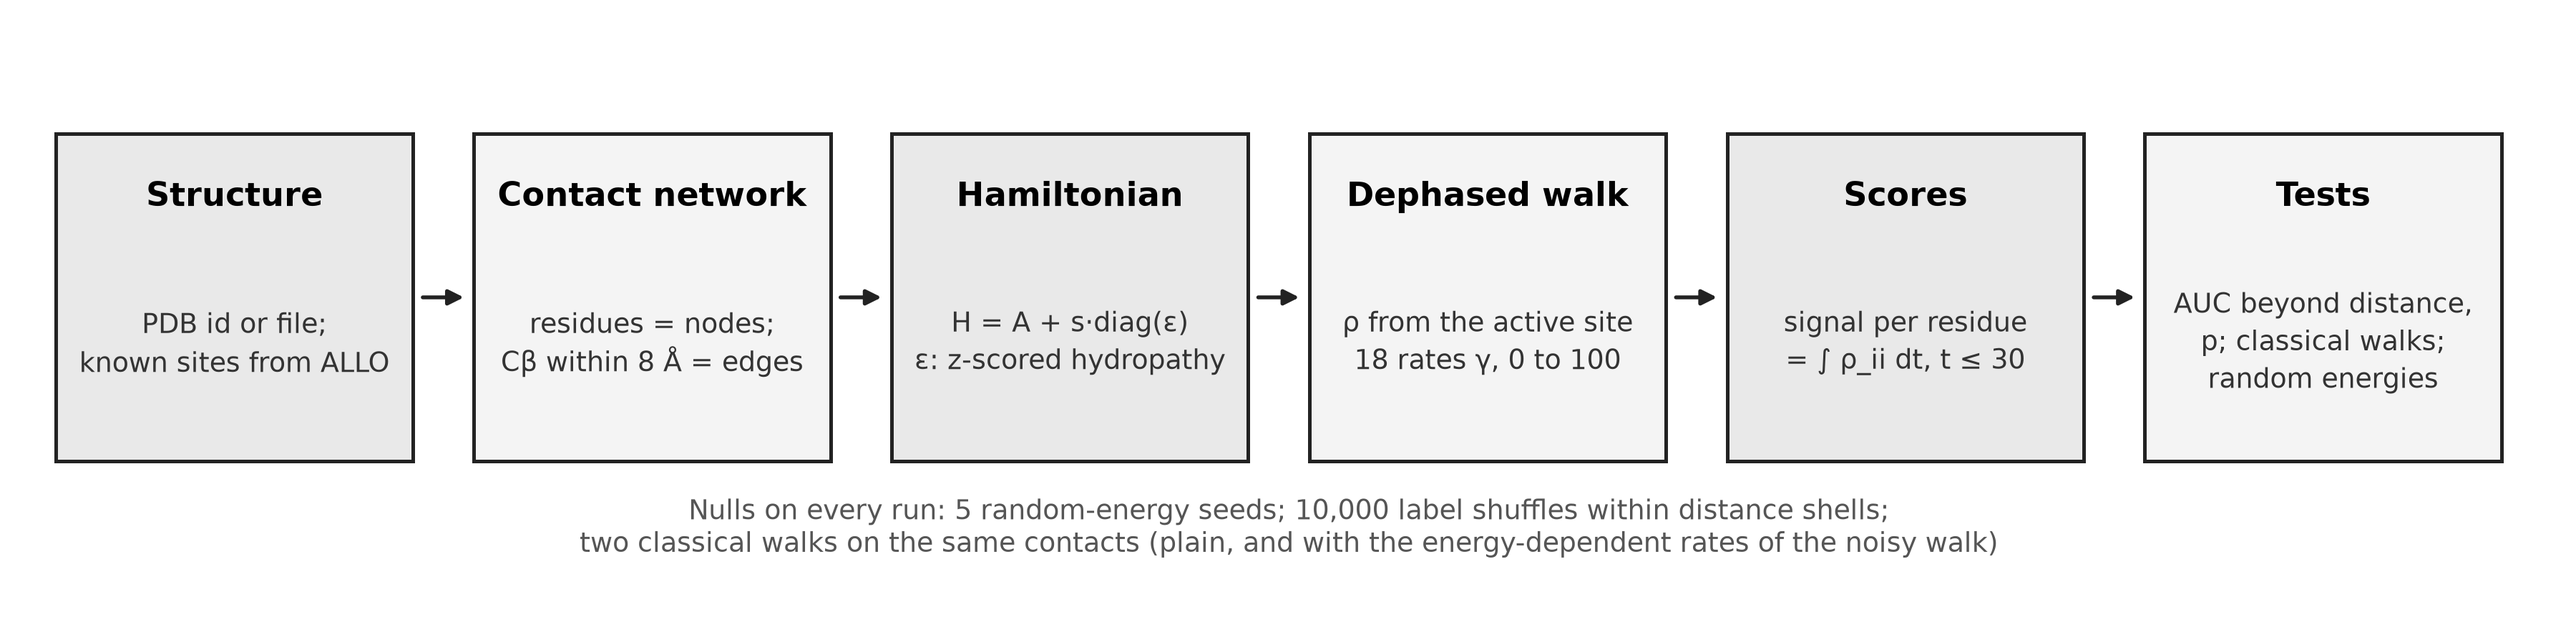
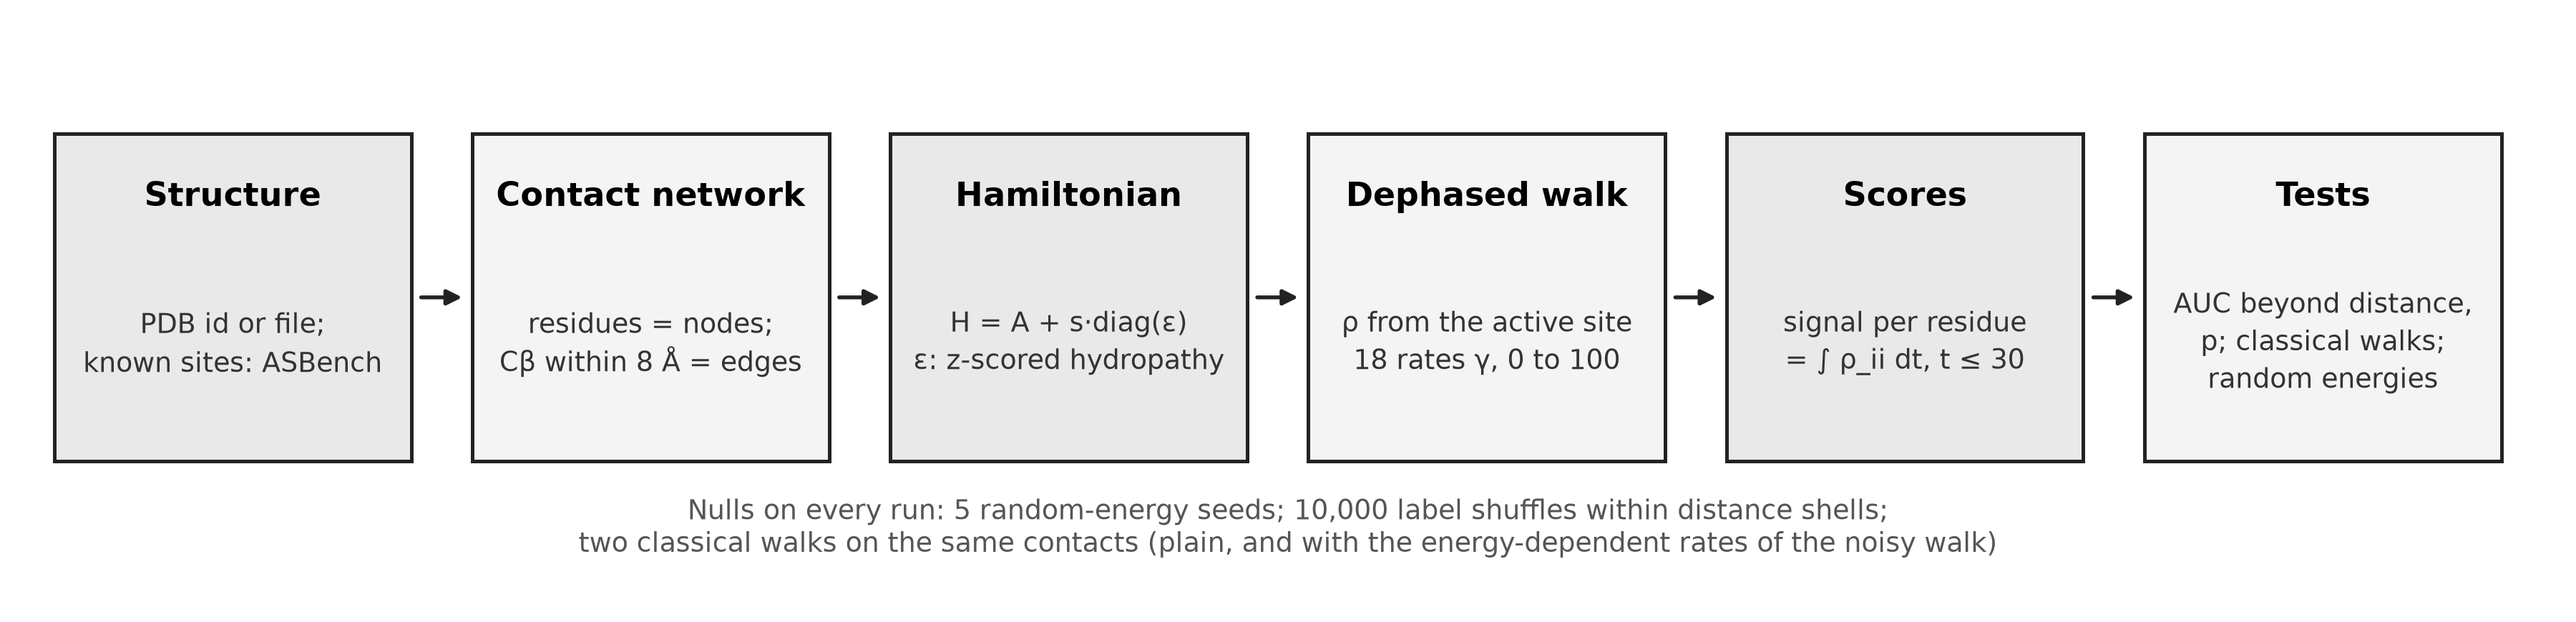
Name the label source correctly: ASBench (via Wu et al. 2022, Table S2), not 'ALLO'
The bundled table is Table S2 of Wu, Stromich & Yaliraki (2022), 118 structures
they collected from the ASBench benchmark and the Allosteric Database. The
paper never uses the name 'ALLO'. User-facing text, notes, help and the
citation now say ASBench and cite it; the data are unchanged. The committed
pre-registration keeps its original wording, with a note in the READMEs.

Claude-Session: https://claude.ai/code/session_01Ghkpb9cDS8f3FHonbzdFeu

diff --git a/labels.py b/labels.py
@@ -3,12 +3,14 @@
 
 Labels come from, in order of precedence:
   1. residues you give (--active / --allosteric),
-  2. the bundled ALLO benchmark table (data/allo_labels.csv), looked up by the
+  2. the bundled benchmark table (data/allo_labels.csv), looked up by the
      structure's PDB id. That table is Supplementary Table S2 of
      Wu, Stromich & Yaliraki, "Prediction of allosteric sites and signaling:
      insights from benchmarking datasets", Patterns 3(1), 100408 (2022),
-     doi:10.1016/j.patter.2021.100408 (CC BY 4.0), curated from the Allosteric
-     Database (ASD). Cite it if you use it.
+     doi:10.1016/j.patter.2021.100408 (CC BY 4.0): 118 structures collected from
+     the ASBench benchmark (Huang et al., Bioinformatics 31, 2598 (2015)) and the
+     Allosteric Database (ASD). Cite both if you use it. (Earlier versions of this
+     project called it "the ALLO table"; that name does not appear in the paper.)
 
 Residue ids use the network's convention, CHAIN:RESSEQ[ICODE] in author
 numbering, e.g. A:57 or A:57B.
@@ -17,9 +19,10 @@ import csv, os, re
 
 HERE = os.path.dirname(os.path.abspath(__file__))
 TABLE_PATH = os.path.join(HERE, "data", "allo_labels.csv")
-ALLO_CITATION = ("Wu N, Stromich L, Yaliraki SN. Prediction of allosteric sites and signaling: "
-                 "insights from benchmarking datasets. Patterns 3(1), 100408 (2022), "
-                 "doi:10.1016/j.patter.2021.100408, Table S2.")
+TABLE_CITATION = ("Wu N, Stromich L, Yaliraki SN. Prediction of allosteric sites and signaling: "
+                  "insights from benchmarking datasets. Patterns 3(1), 100408 (2022), "
+                  "doi:10.1016/j.patter.2021.100408, Table S2; from ASBench (Huang W et al. "
+                  "Bioinformatics 31, 2598 (2015)) and the Allosteric Database.")
 _ID = re.compile(r"^[0-9][A-Za-z0-9]{3}$")
 _RES = re.compile(r"^([A-Za-z0-9]+):(-?\d+[A-Za-z]?)(?::([A-Za-z]{3}))?$")
 
@@ -74,14 +77,14 @@ def parse_residues(text, default_chain=None):
 
 
 def from_table_row(row):
-    return {"origin": "ALLO", "entry": row["entry"], "pdb": row["pdb"], "protein": row["protein"],
-            "allosteric_ligand": row["allosteric_ligand"], "citation": ALLO_CITATION,
+    return {"origin": "ASBench", "entry": row["entry"], "pdb": row["pdb"], "protein": row["protein"],
+            "allosteric_ligand": row["allosteric_ligand"], "citation": TABLE_CITATION,
             "active": parse_residues(row["active_site"]),
             "allosteric": parse_residues(row["allosteric_site"])}
 
 
 def resolve(inp, labels_arg="auto", active=None, allosteric=None, site=None, default_chain=None):
-    """Work out which labels apply. Returns (labels or None, note, other ALLO entries)."""
+    """Work out which labels apply. Returns (labels or None, note, other entries for this PDB id)."""
     if active or allosteric:
         if not active:
             raise ValueError("known allosteric residues need the active site too (--active).")
@@ -94,15 +97,15 @@ def resolve(inp, labels_arg="auto", active=None, allosteric=None, site=None, def
     pid = structure_id(inp)
     rows = [r for r in load_table() if r["pdb"].upper() == pid] if pid else []
     if not rows:
-        return None, (f"PDB id {pid} is not in the ALLO table" if pid else "no PDB id found for this structure"), []
+        return None, (f"PDB id {pid} is not in the ASBench table" if pid else "no PDB id found for this structure"), []
     entries = [r["entry"] for r in rows]
     row = rows[0]
     if site is not None:
         pick = [r for r in rows if r["entry"] == site or r["entry"].endswith(f"_{site}")]
         if not pick:
-            raise ValueError(f"ALLO has no site '{site}' for {pid}; choose one of {', '.join(entries)}.")
+            raise ValueError(f"the ASBench table has no site '{site}' for {pid}; choose one of {', '.join(entries)}.")
         row = pick[0]
-    note = f"ALLO entry {row['entry']} ({row['protein']})"
+    note = f"ASBench entry {row['entry']} ({row['protein']})"
     if len(rows) > 1:
         note += f"; other sites for this PDB: {', '.join(e for e in entries if e != row['entry'])} (use --site)"
     return from_table_row(row), note, entries

diff --git a/run_protein.py b/run_protein.py
@@ -17,8 +17,8 @@ the output folder:
     NAME_result.json         all numbers behind the figures
 
 Any PDB id or structure file works. The walk starts at the active site when one
-is known: looked up in the bundled ALLO benchmark table (118 proteins) by PDB id,
-or given with --active. Known allosteric residues (from ALLO or --allosteric)
+is known: looked up in the bundled ASBench table (118 structures; Wu et al. 2022, Table S2) by PDB id,
+or given with --active. Known allosteric residues (from that table or --allosteric)
 add the ROC AUC test; without them you still get the ranked candidate residues.
 With no active site at all, the walk starts at --source (default: the
 most-connected residue) and gives the transport curve and ranking.
@@ -542,10 +542,10 @@ def main():
                          "skips it (about 4 times faster, but a hump without it is not evidence).")
     ap.add_argument("--control-seeds", type=int, default=5, help="Random-energy seeds for the control.")
     ap.add_argument("--permutations", type=int, default=10000, help="Label shuffles for the p-value.")
-    ap.add_argument("--labels", choices=["auto", "none"], default="auto", help="auto: ALLO table by PDB id; none: skip.")
+    ap.add_argument("--labels", choices=["auto", "none"], default="auto", help="auto: the ASBench table by PDB id; none: skip.")
     ap.add_argument("--active", default=None, help="Active-site residues, e.g. A:57,A:102 (the walk starts here).")
     ap.add_argument("--allosteric", default=None, help="Known allosteric residues, e.g. A:196,A:203 (adds the AUC test).")
-    ap.add_argument("--site", default=None, help="Which ALLO entry when a PDB has several (e.g. 2 for 1CE8_2).")
+    ap.add_argument("--site", default=None, help="Which table entry when a PDB has several (e.g. 2 for 1CE8_2).")
     ap.add_argument("--workers", type=int, default=None, help="Parallel processes (default: CPU cores, max 8).")
     ap.add_argument("--outdir", default="output")
     ap.add_argument("--prefix", default=None)

diff --git a/results/make_results.py b/results/make_results.py
@@ -7,7 +7,7 @@
 Every protein studied is reported, including the ones where nothing is found.
 Runs use the pipeline defaults (8 Å Cβ contacts, hydropathy energies at scale 3,
 18 noise levels, 5 random-energy seeds, 10,000 label shuffles); the known sites
-come from the bundled ALLO table. Only the small data files of each run are kept
+come from the bundled ASBench table (Wu et al. 2022, Table S2). Only the small data files of each run are kept
 (CSVs, parameters and result JSON); the network, structure and per-run figures
 are left out to keep the repository light.
 """
@@ -348,7 +348,7 @@ def fig_workflow():
     ax.set_xlim(0, 12.3)
     ax.set_ylim(-0.15, 2.9)
     ax.axis("off")
-    boxes = [("Structure", "PDB id or file;\nknown sites from ALLO"),
+    boxes = [("Structure", "PDB id or file;\nknown sites: ASBench"),
              ("Contact network", "residues = nodes;\nCβ within 8 Å = edges"),
              ("Hamiltonian", "H = A + s·diag(ε)\nε: z-scored hydropathy"),
              ("Dephased walk", "ρ from the active site\n18 rates γ, 0 to 100"),

diff --git a/results/select_proteins.py b/results/select_proteins.py
@@ -2,7 +2,8 @@
 """select_proteins.py - the prespecified validation set, chosen before any of it is run.
 
 The four proteins in PROTEINS of make_results.py were picked during development.
-The validation set is drawn from the ALLO table by a rule fixed in advance:
+The validation set is drawn from the ASBench table (data/allo_labels.csv; called the
+ALLO table when this rule was committed) by a rule fixed in advance:
 
   1. one entry per PDB id (the first in the table);
   2. every active-site and allosteric residue lies on one chain;

diff --git a/tests/test_labels.py b/tests/test_labels.py
@@ -14,7 +14,7 @@ def test_table_loads():
 
 def test_lookup_by_pdb_id_and_site():
     lab, note, entries = lb.resolve("1iwh")
-    assert lab["entry"] == "1IWH" and lab["origin"] == "ALLO" and "Hemoglobin" in note
+    assert lab["entry"] == "1IWH" and lab["origin"] == "ASBench" and "Hemoglobin" in note
     lab2, _, entries2 = lb.resolve("1CE8", site="2")
     assert lab2["entry"] == "1CE8_2" and set(entries2) == {"1CE8_1", "1CE8_2"}
     assert lb.resolve("1A8O")[0] is None                   # not in the table

diff --git a/README.md b/README.md
@@ -19,7 +19,8 @@ two questions:
 | + the active site (`--active`) | walk from the active site: ranked candidate allosteric residues |
 | + known allosteric residues (`--allosteric`) | the ROC AUC test of how well the walk finds them |
 
-For the 118 proteins in the bundled ALLO benchmark table, the active site and
+For the 118 structures in the bundled benchmark table (from ASBench and the Allosteric
+Database, via Wu et al. 2022; see below), the active site and
 allosteric residues are filled in automatically from the PDB id. A PDB file does
 not say where a protein's allosteric site is; that comes from experiments, which
 is why a score is only possible where those residues are known.
@@ -38,7 +39,7 @@ Needs Python 3.10 or newer (tested on 3.11). Download the code and install the f
     python run_protein.py 1A8O.pdb                 # a file
     python run_protein.py 4OBE --chains A          # any PDB id
     python run_protein.py 4OBE --chains A --active A:12,A:13,A:61   # with an active site
-    python run_protein.py 1IWH                     # an ALLO protein (known sites looked up)
+    python run_protein.py 1IWH                     # a protein in the table (known sites looked up)
     python run_protein.py 1IWH --no-control        # quick look, skips the null model
 
 The website (QubitMan, with a light/dark toggle) runs on your own computer: the
@@ -127,10 +128,10 @@ Outputs land in `output/`:
 
     --source A:151          start residue when no active site is known (default: most connected)
     --chains A              chains to include (default: the labels' chains, else all)
-    --labels none           skip the allosteric test (default: ALLO lookup by PDB id)
+    --labels none           skip the allosteric test (default: table lookup by PDB id)
     --active A:57,A:102     your active site (the walk starts here)
     --allosteric A:196      known allosteric residues (adds the AUC test)
-    --site 2                which ALLO entry when a PDB has several (e.g. 1CE8_2)
+    --site 2                which table entry when a PDB has several (e.g. 1CE8_2)
     --no-control            skip the null model (about 4 times faster; --control-seeds 5)
     --site-energy random    random energies for the main run
     --scale 3               site-energy disorder strength
@@ -140,7 +141,7 @@ Outputs land in `output/`:
 ## Results so far
 
 `results/` holds the tables and figures for every protein studied so far: four
-used during development and fifteen held out, drawn from the ALLO table in an
+used during development and fifteen held out, drawn from that table in an
 order fixed in advance (the last five pre-registered as final before they were
 run; see `results/PREREGISTRATION.md`), positives and nulls alike, with the
 per-run data and the scripts that rebuild them. In short:
@@ -190,13 +191,17 @@ less. Time grows roughly with the square of the residue count.
 `data/allo_labels.csv` is Supplementary Table S2 of Wu N, Strömich L, Yaliraki SN,
 "Prediction of allosteric sites and signaling: insights from benchmarking
 datasets", *Patterns* 3(1), 100408 (2022), doi:10.1016/j.patter.2021.100408
-(CC BY 4.0), curated from the Allosteric Database. Cite it if you use it.
+(CC BY 4.0): 118 structures of 113 allosteric proteins that the authors collected from
+the ASBench benchmark (Huang et al., *Bioinformatics* 31, 2598 (2015)) and the
+Allosteric Database (ASD). Cite both if you use it. We call it "the ASBench table";
+earlier versions of this project, and `results/PREREGISTRATION.md`, called it "the
+ALLO table", a name that does not appear in the paper.
 
 ## Files
 
     run_protein.py   the one command; analyze() is shared with the web app
     walk_core.py     the physics: walk, metrics, parallel sweeps
-    labels.py        active-site / allosteric residues (ALLO table or your own)
+    labels.py        active-site / allosteric residues (the ASBench table or your own)
     rin_builder.py   structure -> residue network
     web/             the local web app
     tests/           python tests/test_walk_core.py, python tests/test_labels.py
@@ -205,4 +210,4 @@ datasets", *Patterns* 3(1), 100408 (2022), doi:10.1016/j.patter.2021.100408
 
 © 2026 Qubit Man. Released under the MIT licence (see `LICENSE`). If you use
 this code, please cite it (see `CITATION.cff`, or GitHub's "Cite this repository"
-button). The bundled ALLO labels are CC BY 4.0 and must be cited as above.
+button). The bundled labels are CC BY 4.0 and must be cited as above.

diff --git a/results/README.md b/results/README.md
@@ -11,8 +11,10 @@ pipeline's own runs, so they can be rebuilt and checked:
 The pipeline defaults are used throughout: 8 Å Cβ contacts, hydropathy site
 energies at scale 3, 18 dephasing rates (0 and 0.01 to 100), T = 30, 5
 random-energy seeds and 10,000 label shuffles for p. The active and allosteric
-residues come from the bundled ALLO table (Wu, Strömich & Yaliraki, Patterns
-2022, Table S2).
+residues come from the bundled benchmark table, Table S2 of Wu, Strömich & Yaliraki (Patterns
+2022): 118 structures collected from ASBench (Huang et al. 2015) and the Allosteric
+Database. `PREREGISTRATION.md` and older commits call it "the ALLO table"; that
+name does not appear in the paper, and the table is the same.
 
 ## Which proteins, and when they were chosen
 
@@ -100,7 +102,7 @@ What this adds up to:
   perturbation-response scanning in 3. The methods succeed on different proteins,
   and tested together they do not differ in how often they succeed (Cochran's Q,
   p = 0.83); no pairwise difference in AUC survives a Holm correction.
-- Everything here is conditional on ALLO's definition of an allosteric site.
+- Everything here is conditional on this table's definition of an allosteric site.
 - The 95% intervals are wide (0.16 to 0.60), because each protein has only 5 to 19
   labelled allosteric residues.
 
